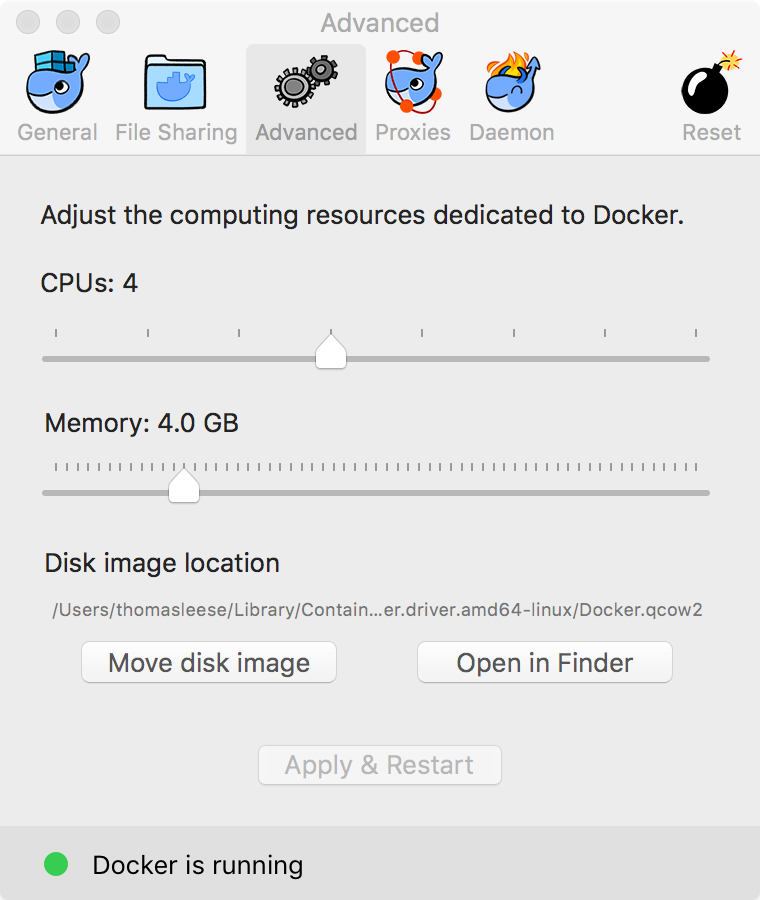
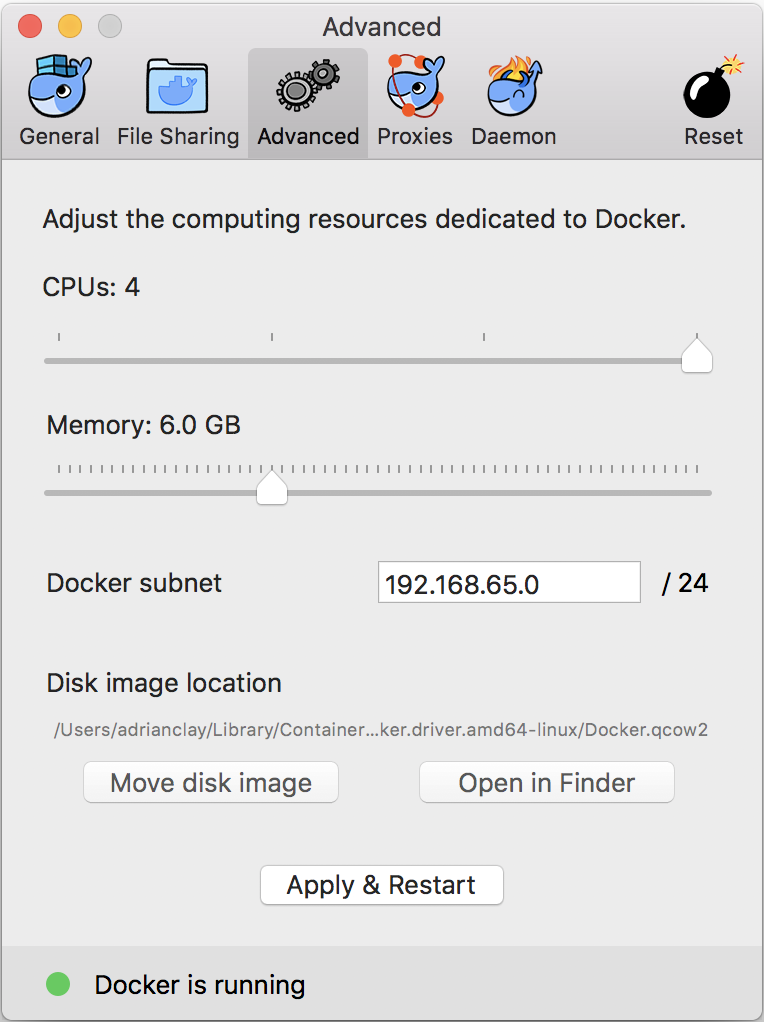
Update the Docker documentation memory requirements to match reality

diff --git a/docs/docker.md b/docs/docker.md
@@ -9,7 +9,7 @@
 
 ## Configuration
 
-We recommend that you configure Docker to use at least 4 CPUs with 4 GB of
+We recommend that you configure Docker to use at least 4 CPUs with 6 GB of
 memory, otherwise you may find the apps struggle to run well enough to pass the
 tests.
 
@@ -47,3 +47,7 @@ containers and images.
 docker rmi $(docker images -f dangling=true -q)
 docker volume rm $(docker volume ls -q -f dangling=true)
 ```
+
+Docker for Mac will start comsuming vast amounts of CPU when it isn't given
+enough RAM.   If you find the apps aren't booting within the 60 second timeout
+then I'd recommend increasing the memory limit by at least 1GB.
